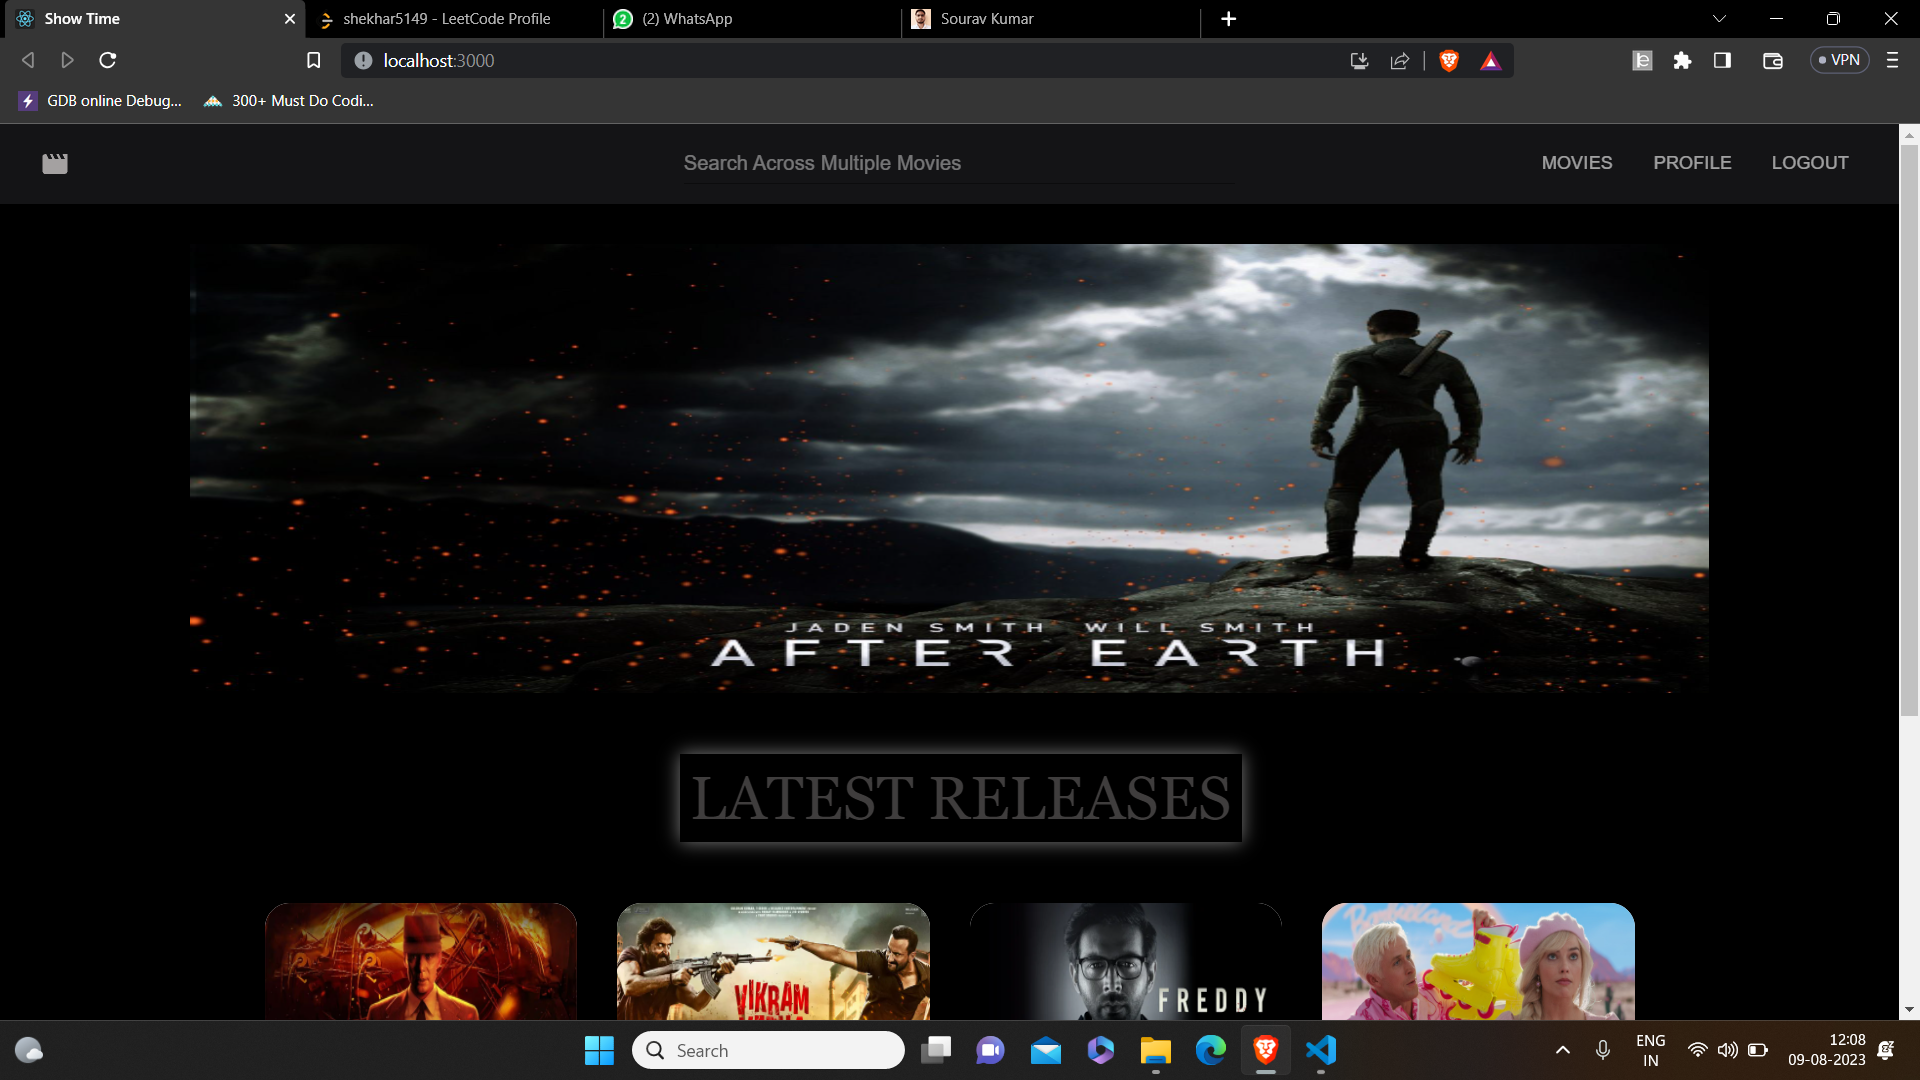
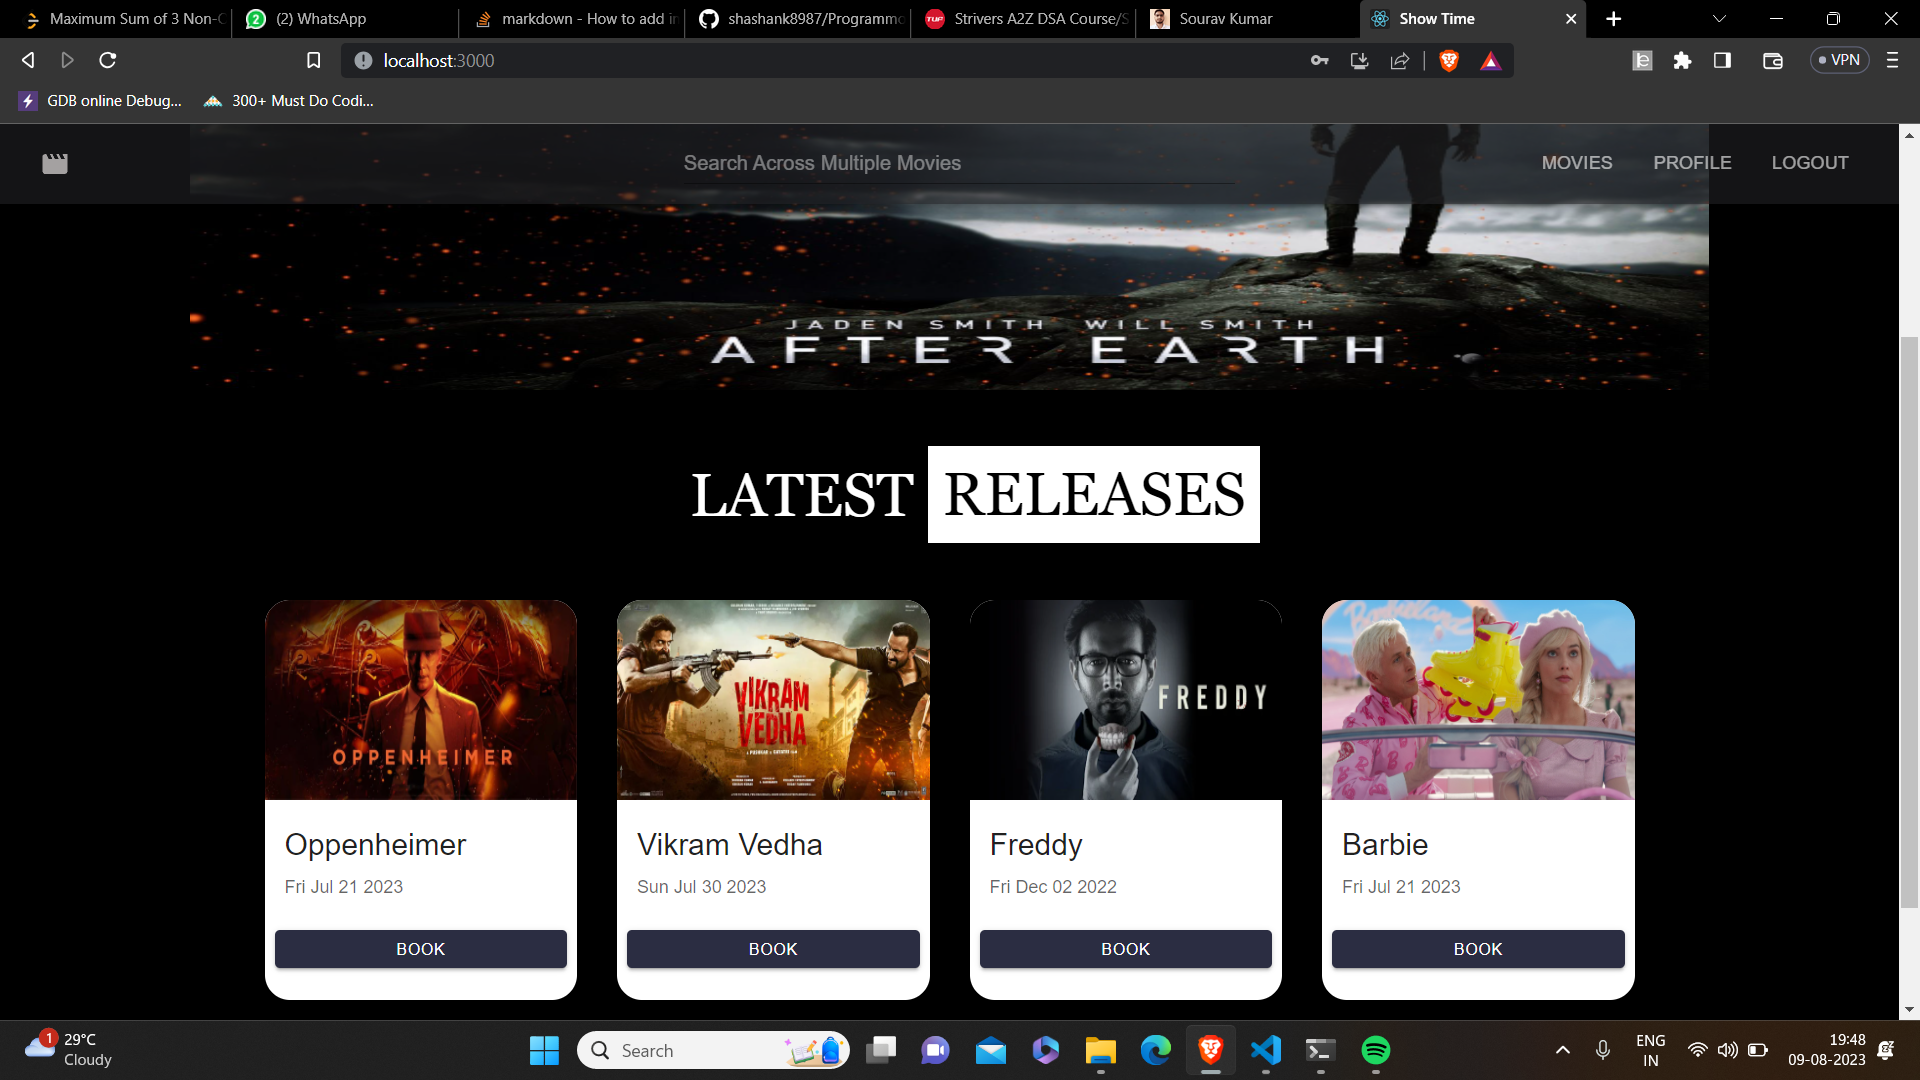
updated

diff --git a/frontend/src/components/HomePage.js b/frontend/src/components/HomePage.js
@@ -22,8 +22,8 @@ const HomePage = () => {
         />
       </Box>
       <Box padding={5} margin="auto">
-        <Typography variant="h3" textAlign={"center"} fontFamily={"Georgia, 'Times New Roman', Times, serif"} fontWeight={"500"} backgroundColor={"black"} boxShadow={"0 0 15px grey"} display={"inline"} justifyContent={"center"} marginLeft={63} padding={1} color={"rgb(63, 61, 61)"}>
-          LATEST RELEASES
+        <Typography variant="h3" textAlign={"center"} fontFamily={"Georgia, 'Times New Roman', Times, serif"} fontWeight={"500"} display={"inline"} justifyContent={"center"} marginLeft={63} padding={1} color={"white"}>
+          LATEST <span style={{backgroundColor:"white", color:"black", padding:"0.8%", marginLeft:"0.5", fontWeight:"100"}}>RELEASES</span>
         </Typography>
       </Box>
       <Box

diff --git a/backend/controllers/movie-controller.js b/backend/controllers/movie-controller.js
@@ -74,7 +74,6 @@ export const getAllMovies = async (req, res, next) => {
 
   try {
     movies = await Movie.find();
-    console.log(movies)
   } catch (err) {
     return console.log(err);
   }

diff --git a/readme.md b/readme.md
@@ -1,27 +1,74 @@
-# Show Time
+# SHOW-TIME
+## _The movie booking application_
+
+<p align="center">
+</p>
 
 
 
 ## Introduction:
-Featuring dual panels for both admin and users, show time is a movie ticket booking website offering comprehensive functionality. Admins efficiently manage movie listings, and timings, while users enjoy easy access to movie choices, number of seat selection, cancelletion of movies.
+- Featuring dual panels for both admin and users, Show-Time is a movie ticket booking website offering comprehensive functionality. 
 
+- Admins efficiently manage movie listings, and timings, while users enjoy easy access to movie choices, seat selection, and secure bookings.
+
+- Admin panel is only accessible by the admin, users cannot log in to the admin panel.
+
+## Installation
+
+Git cloning the repository
+```
+git clone https://github.com/shashank8987/Show-Time.git
+```
+Installing all node modules for backend
+```
+cd backend
+npm install
+```
+Installing all react modules
+```
+cd frontend
+npm install
+```
+Go to the frontend directory and the following command to start the react server
+```
+npm start
+```
+Go to the backend directory and the following command to start the backend server
+```
+npm run start
+```
 
 ## Technology Stack:
+
+- ReactJs
+
+- NodeJs
+
+- Express
+
 - MongoDB
-- NodeJS
-- ReactJS
-- ExpressJS
+
 - Redux
-- Web tokens 
-  
-###
-![alt text](https://github.com/shashank8987/Show-Time.git/blob/master/images/p1.png?raw=true)
 
-## To start the app :
+- Web Tokens
 
-- Download the zip or clone the project.
-- Go to backend folder and install the required modules.
-- Go to frontend folder and install the required react-modules.
-- Add your own mongoDB connection string in .env file.
-- Start the backend and frontend server.
-- The project will get started at localhost:3000.
+
+- The recently added 4 movies will be visible on the home page
+
+![img1](./images/p1.png)
+
+- Users can go to All Movies section to view all the latest movies
+
+![img2](./images/p2.png)
+
+- Users can also search for the latest movies
+
+<p>
+    <img src="./images/p3.png" width="220" height="240" />
+</p>
+
+- Users can select the movie they want to book and on the booking page they can see the description, cast and Ticket Price of the movie
+
+
+
+
